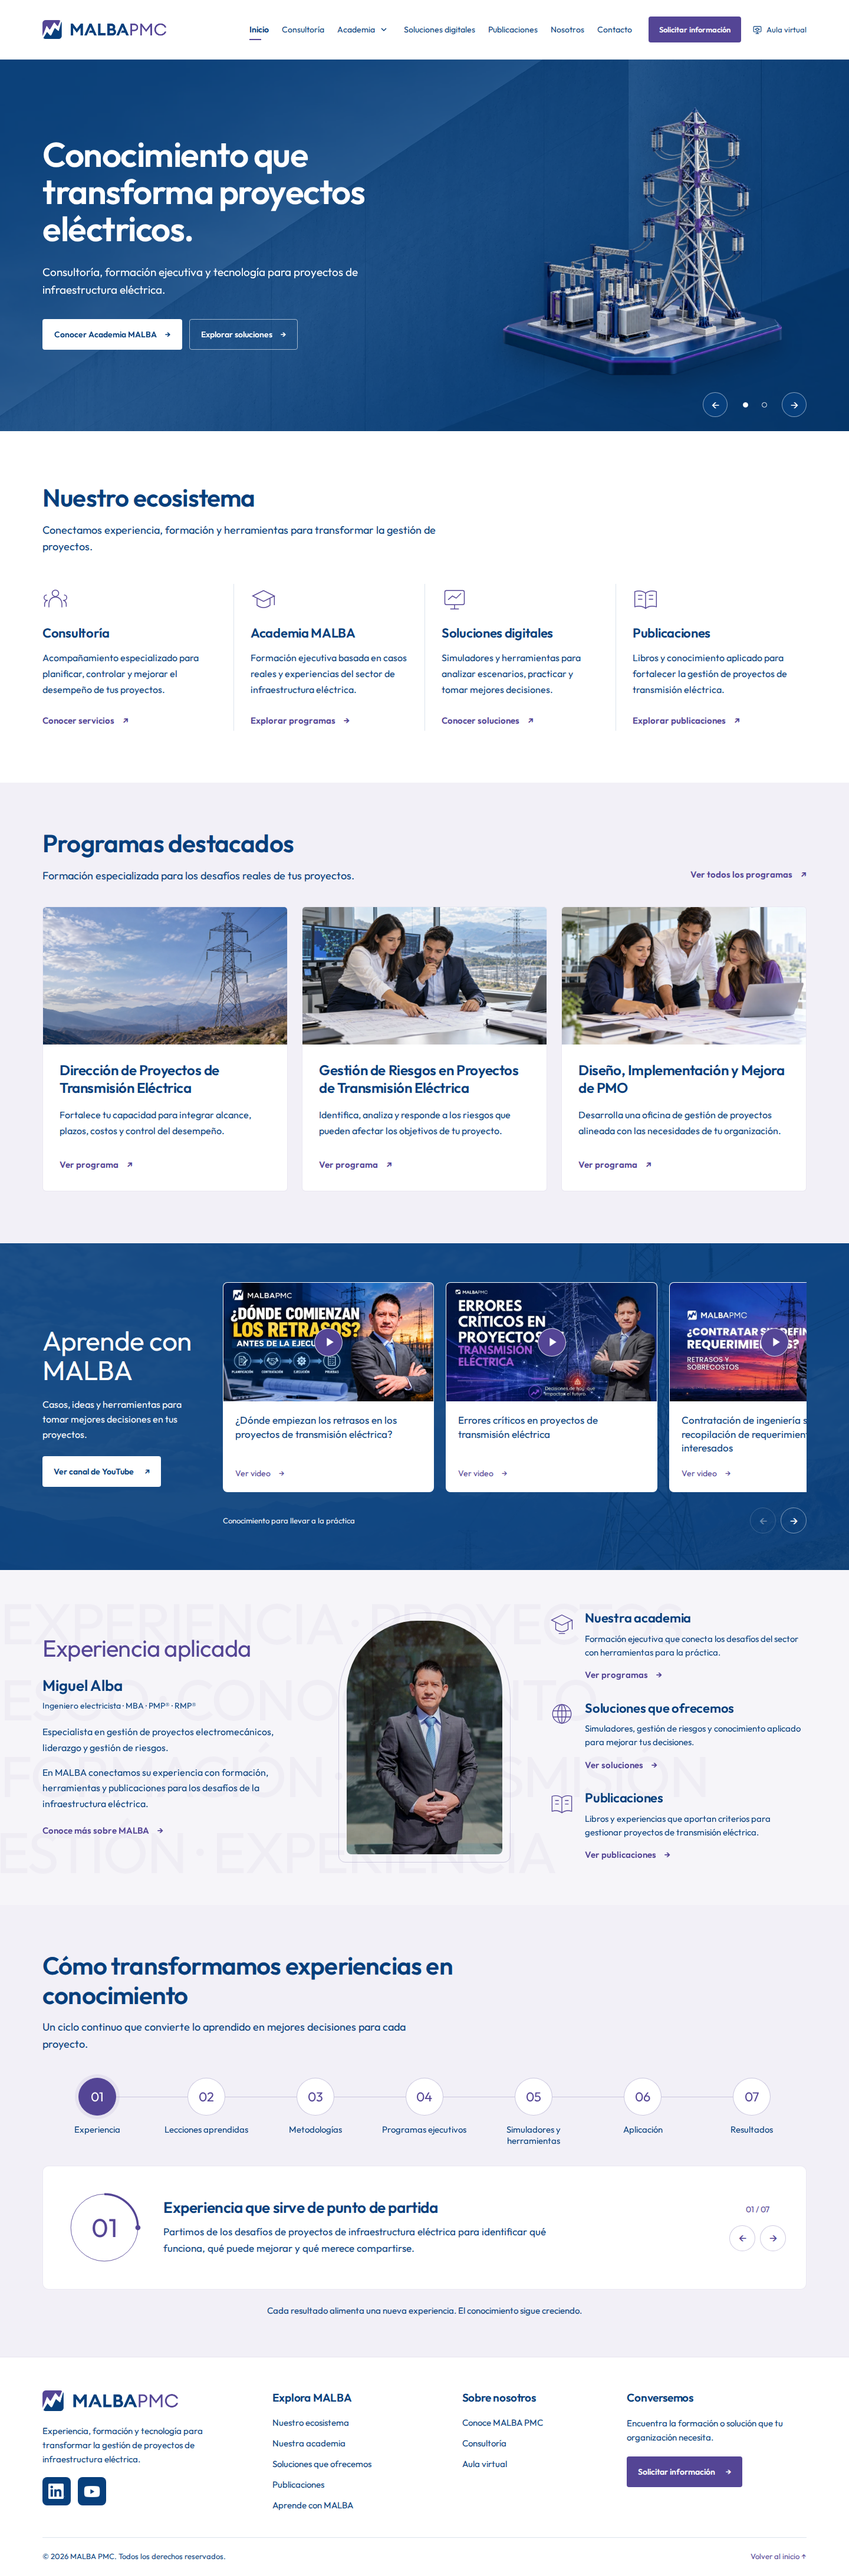
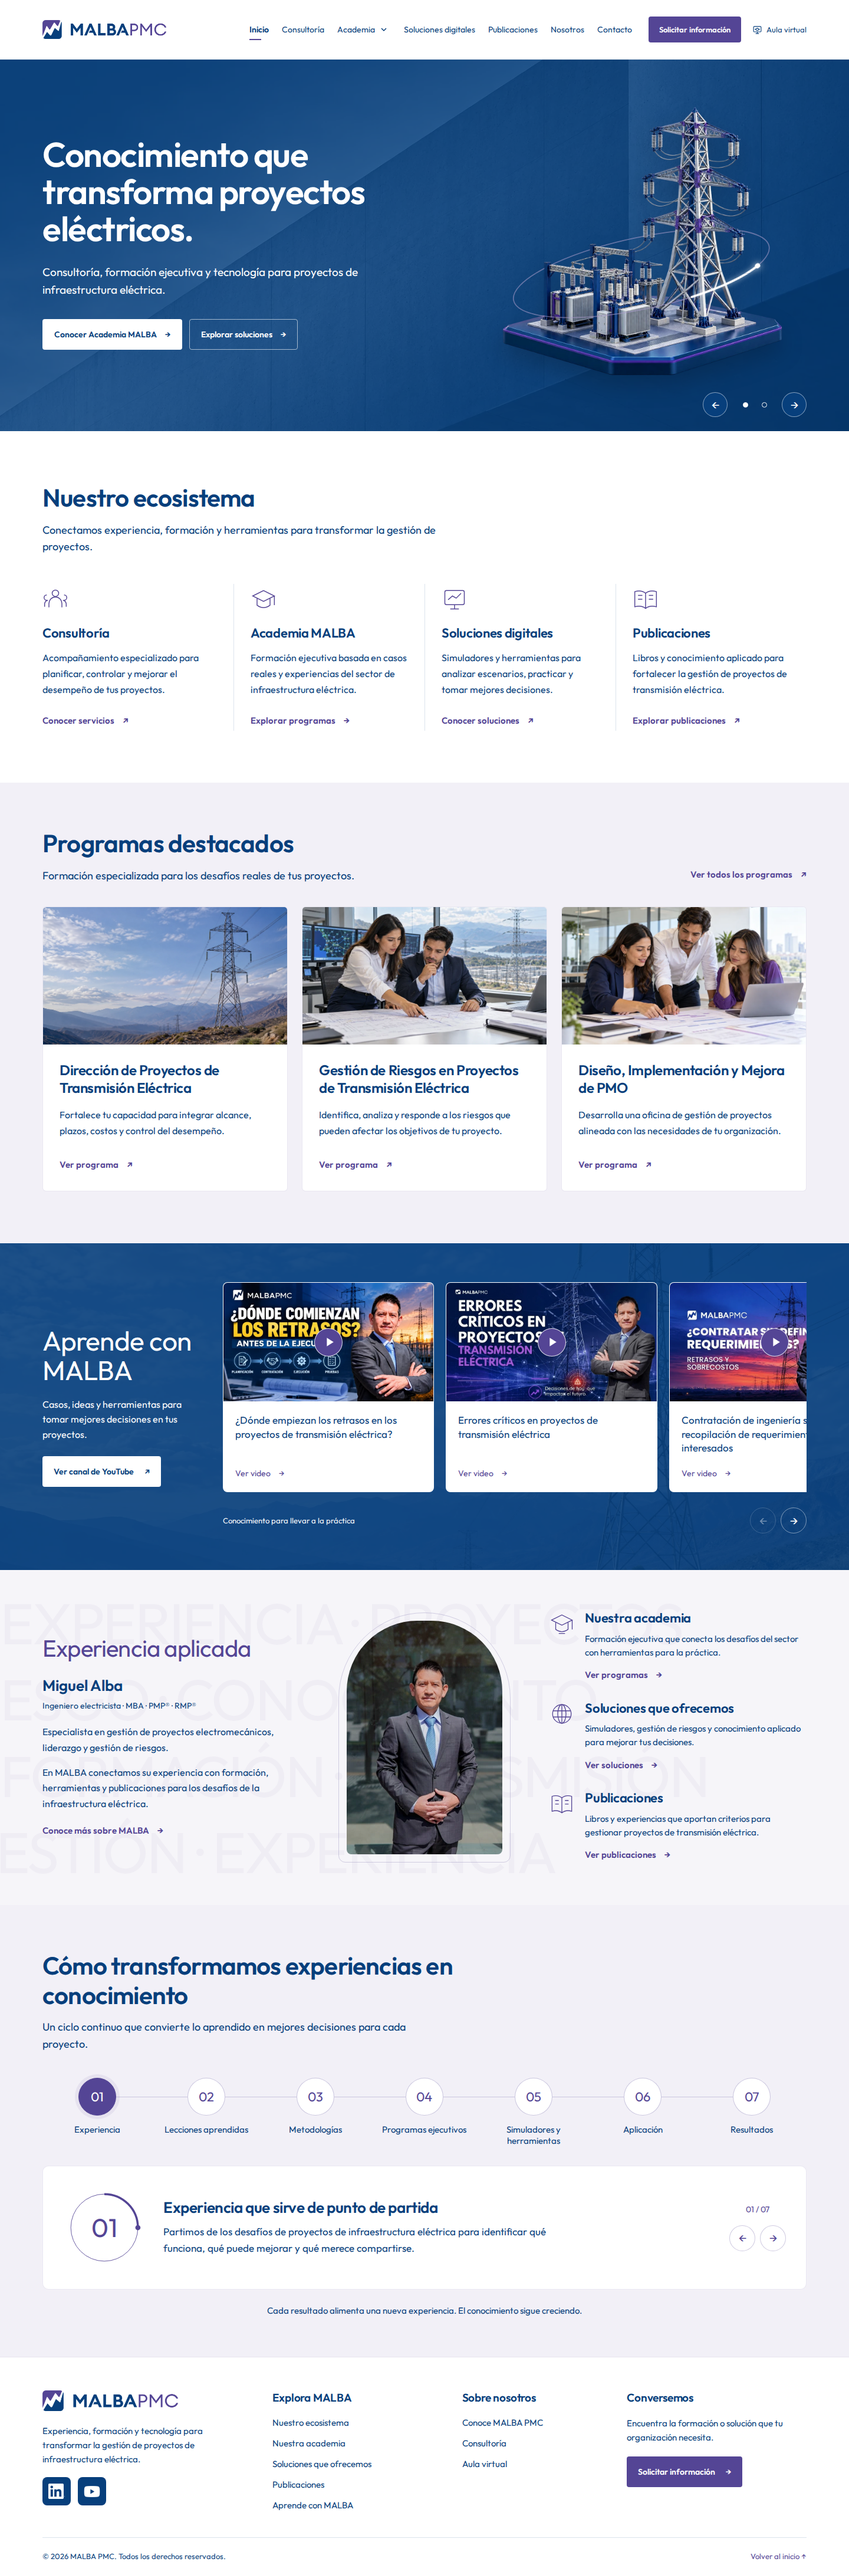
Replace faint hero trails with animated orbital light

Changed region(s): [[0.6875, 0.623, 0.7812, 0.7164], [0.0625, 0.6541, 0.1562, 0.7164], [0.875, 0.0934, 0.9062, 0.1246]]

diff --git a/home-sections.css b/home-sections.css
@@ -956,18 +956,15 @@ body:has(#video-dialog[open]) { overflow: hidden; }
   .is-assembling .hero-assembly-part { animation: none; visibility: hidden; }
 }
 
-/* Small light trails animate around the silhouette, behind the model. */
-.hero-light-trails { position: absolute; inset: 0; z-index: 0; pointer-events: none; }
-.hero-light-trails i { position: absolute; width: 2px; height: 38px; border-radius: 3px; background: rgba(255,255,255,.65); box-shadow: 0 0 9px rgba(255,255,255,.25); opacity: 0; animation: malba-light-trail 4.8s ease-in-out infinite; }
-.hero-light-trails i:nth-child(1) { left: 17%; top: 40%; --trail-angle: -28deg; animation-delay: 2.1s; }
-.hero-light-trails i:nth-child(2) { right: 10%; top: 29%; --trail-angle: 28deg; animation-delay: 3.3s; height: 27px; }
-.hero-light-trails i:nth-child(3) { left: 9%; top: 69%; --trail-angle: -28deg; animation-delay: 4.5s; height: 23px; }
-.hero-light-trails i:nth-child(4) { right: 7%; top: 62%; --trail-angle: 28deg; animation-delay: 5.7s; height: 32px; }
-@keyframes malba-light-trail {
-  0%, 55%, 100% { opacity: 0; transform: rotate(var(--trail-angle)) translateY(18px); }
-  18% { opacity: .6; }
-  40% { opacity: 0; transform: rotate(var(--trail-angle)) translateY(-32px); }
-}
-.hero-slide[aria-hidden="true"] .hero-light-trails i { animation-play-state: paused; }
-@media (max-width: 760px) { .hero-light-trails i { height: 22px; } }
-@media (prefers-reduced-motion: reduce) { .hero-light-trails { display: none; } }
+/* Matching front/back orbital arcs wrap around the model in depth. */
+.hero-orbit { position: absolute; left: -3%; width: 106%; top: 42%; height: 38%; pointer-events: none; }
+.hero-orbit svg { width: 100%; height: 100%; overflow: visible; }
+.hero-orbit-back { z-index: 0; clip-path: inset(-25% -10% 50%); }
+.hero-orbit-front { z-index: 2; clip-path: inset(50% -10% -25%); }
+.hero-orbit-track { stroke: #a79bc8; stroke-width: 2; opacity: .55; }
+.hero-orbit-beam { stroke: #fff; stroke-width: 4; stroke-linecap: round; stroke-dasharray: 130 870; filter: drop-shadow(0 0 5px rgba(255,255,255,.7)); animation: malba-orbit 6s linear infinite; }
+.hero-orbit-spark { stroke: #fff; stroke-width: 9; stroke-linecap: round; stroke-dasharray: 1 999; filter: drop-shadow(0 0 7px rgba(255,255,255,.9)); animation: malba-orbit 6s linear infinite; }
+@keyframes malba-orbit { to { stroke-dashoffset: -1000; } }
+.hero-assembly-pending .hero-orbit, .is-assembling .hero-orbit { visibility: hidden; }
+.hero-slide[aria-hidden="true"] .hero-orbit ellipse { animation-play-state: paused; }
+@media (prefers-reduced-motion: reduce) { .hero-orbit-beam, .hero-orbit-spark { animation: none; } }

diff --git a/index.html b/index.html
@@ -203,7 +203,8 @@
                 </div>
               </div>
               <div class="hero-showcase hero-showcase-3d" data-hero-assembly aria-hidden="true">
-                <span class="hero-light-trails"><i></i><i></i><i></i><i></i></span>
+                <span class="hero-orbit hero-orbit-back"><svg viewBox="0 0 560 200" fill="none" focusable="false"><ellipse class="hero-orbit-track" cx="280" cy="100" rx="248" ry="68" transform="rotate(-12 280 100)"/><ellipse class="hero-orbit-beam" cx="280" cy="100" rx="248" ry="68" transform="rotate(-12 280 100)" pathLength="1000"/><ellipse class="hero-orbit-spark" cx="280" cy="100" rx="248" ry="68" transform="rotate(-12 280 100)" pathLength="1000"/></svg></span>
+                <span class="hero-orbit hero-orbit-front"><svg viewBox="0 0 560 200" fill="none" focusable="false"><ellipse class="hero-orbit-track" cx="280" cy="100" rx="248" ry="68" transform="rotate(-12 280 100)"/><ellipse class="hero-orbit-beam" cx="280" cy="100" rx="248" ry="68" transform="rotate(-12 280 100)" pathLength="1000"/><ellipse class="hero-orbit-spark" cx="280" cy="100" rx="248" ry="68" transform="rotate(-12 280 100)" pathLength="1000"/></svg></span>
                 <picture class="hero-assembly-rest">
                   <source media="(max-width: 760px)" srcset="assets/hero/infraestructura-3d-640.webp">
                   <img src="assets/hero/infraestructura-3d-1280.webp" width="1280" height="1170" alt="" decoding="async" fetchpriority="high">

diff --git a/docs/VALIDATION.md b/docs/VALIDATION.md
@@ -32,3 +32,7 @@ Imagen original de arquitectura con pocos planos, sin torres ni equipos adiciona
 ### Modelo ampliado y destellos
 
 Se amplió el contenedor 3D de 430 a 470 px en escritorio y de 215 a 240 px en celular, con tamaños intermedios adaptados. Cuatro trazos luminosos suaves animan detrás del modelo mediante CSS, sin recursos adicionales. Se pausan en la diapositiva inactiva y se ocultan con movimiento reducido. Actualizada la clave de sesión a v2 para mostrar nuevamente el ensamblaje al probar esta versión. Verificados diez anchos (320–1920 px), secuencia base/módulo/torre, navegación al libro, ausencia de desbordamientos y errores; comprobada la visibilidad de los destellos y su alternativa con movimiento reducido.
+
+### Órbita luminosa alrededor del modelo
+
+Se sustituyeron los destellos aislados por una órbita elíptica con un haz blanco y un punto de luz que completan una vuelta cada seis segundos. Capas SVG coincidentes por delante y detrás del modelo producen profundidad; la órbita aparece al terminar el ensamblaje. Verificados movimiento real del haz, pausa en diapositiva inactiva, alternativa sin movimiento, secuencia de tres caídas y diez anchos de 320 a 1920 px, sin desbordamientos ni errores de recursos o JavaScript. Capturas actualizadas.
